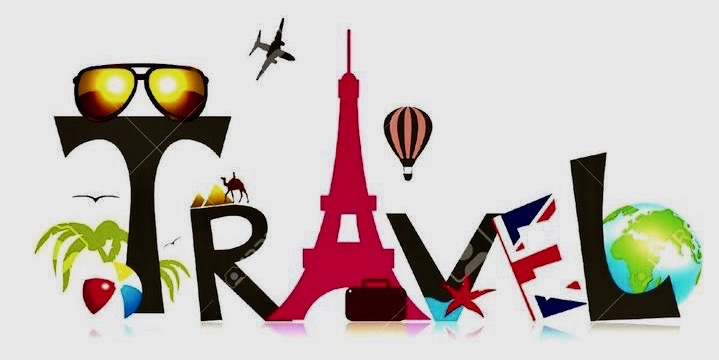
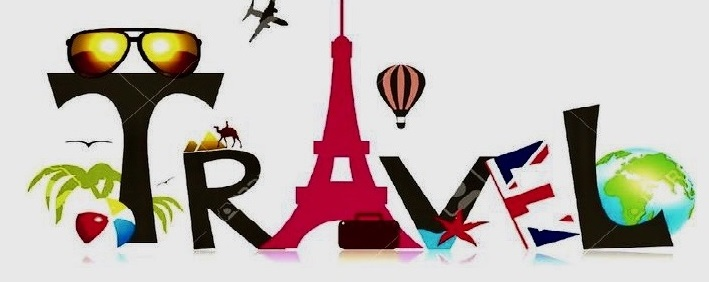
Save

Changed region(s): [[0.031, 0.0, 0.9929, 0.9362], [0.3413, 0.0, 0.4344, 0.227]]

diff --git a/public/styles/styles.css b/public/styles/styles.css
@@ -14,18 +14,23 @@ body {
 .jumbotron {
   /* background-image: linear-gradient(141deg, #9fb8ad 0%, #1fc8db 51%, #444349 75%); */
 
-  /* height: 0; */
-  width: 100%;
-  padding-bottom: 10px;
-  /* position: relative; */
-  padding: 40% 0 0;
+   /* height: 10px; */
+  /* width: 100%; */
+  /* padding-bottom: 10px; */
+  position: relative;
+  height: 35vh;
+
+  /* padding: 40% 0 0; */
   /* margin-bottom: 10px; */
   color: inherit;
-  background-color: #f9f9f9;
+  background-color: rgb(232,232,232);
   text-align: center;
-  background-size: cover;
-  background: contain;
+  /* background-size: cover; */
+  /* background: contain; */
   background-image: url(../images/adventure-travel.jpg);
+  background-repeat: no-repeat;
+  background-position-x: center;
+
   /* background-position: center; */
 
 }
@@ -33,8 +38,11 @@ body {
 .jumbotron-text {
   text-align: top;
   color: green;
-  padding: 10px;
-  position: relative;
+
+  padding: 5px;
+  position: absolute;
+  top: 0;
+  right: 0;
 
 }
 
